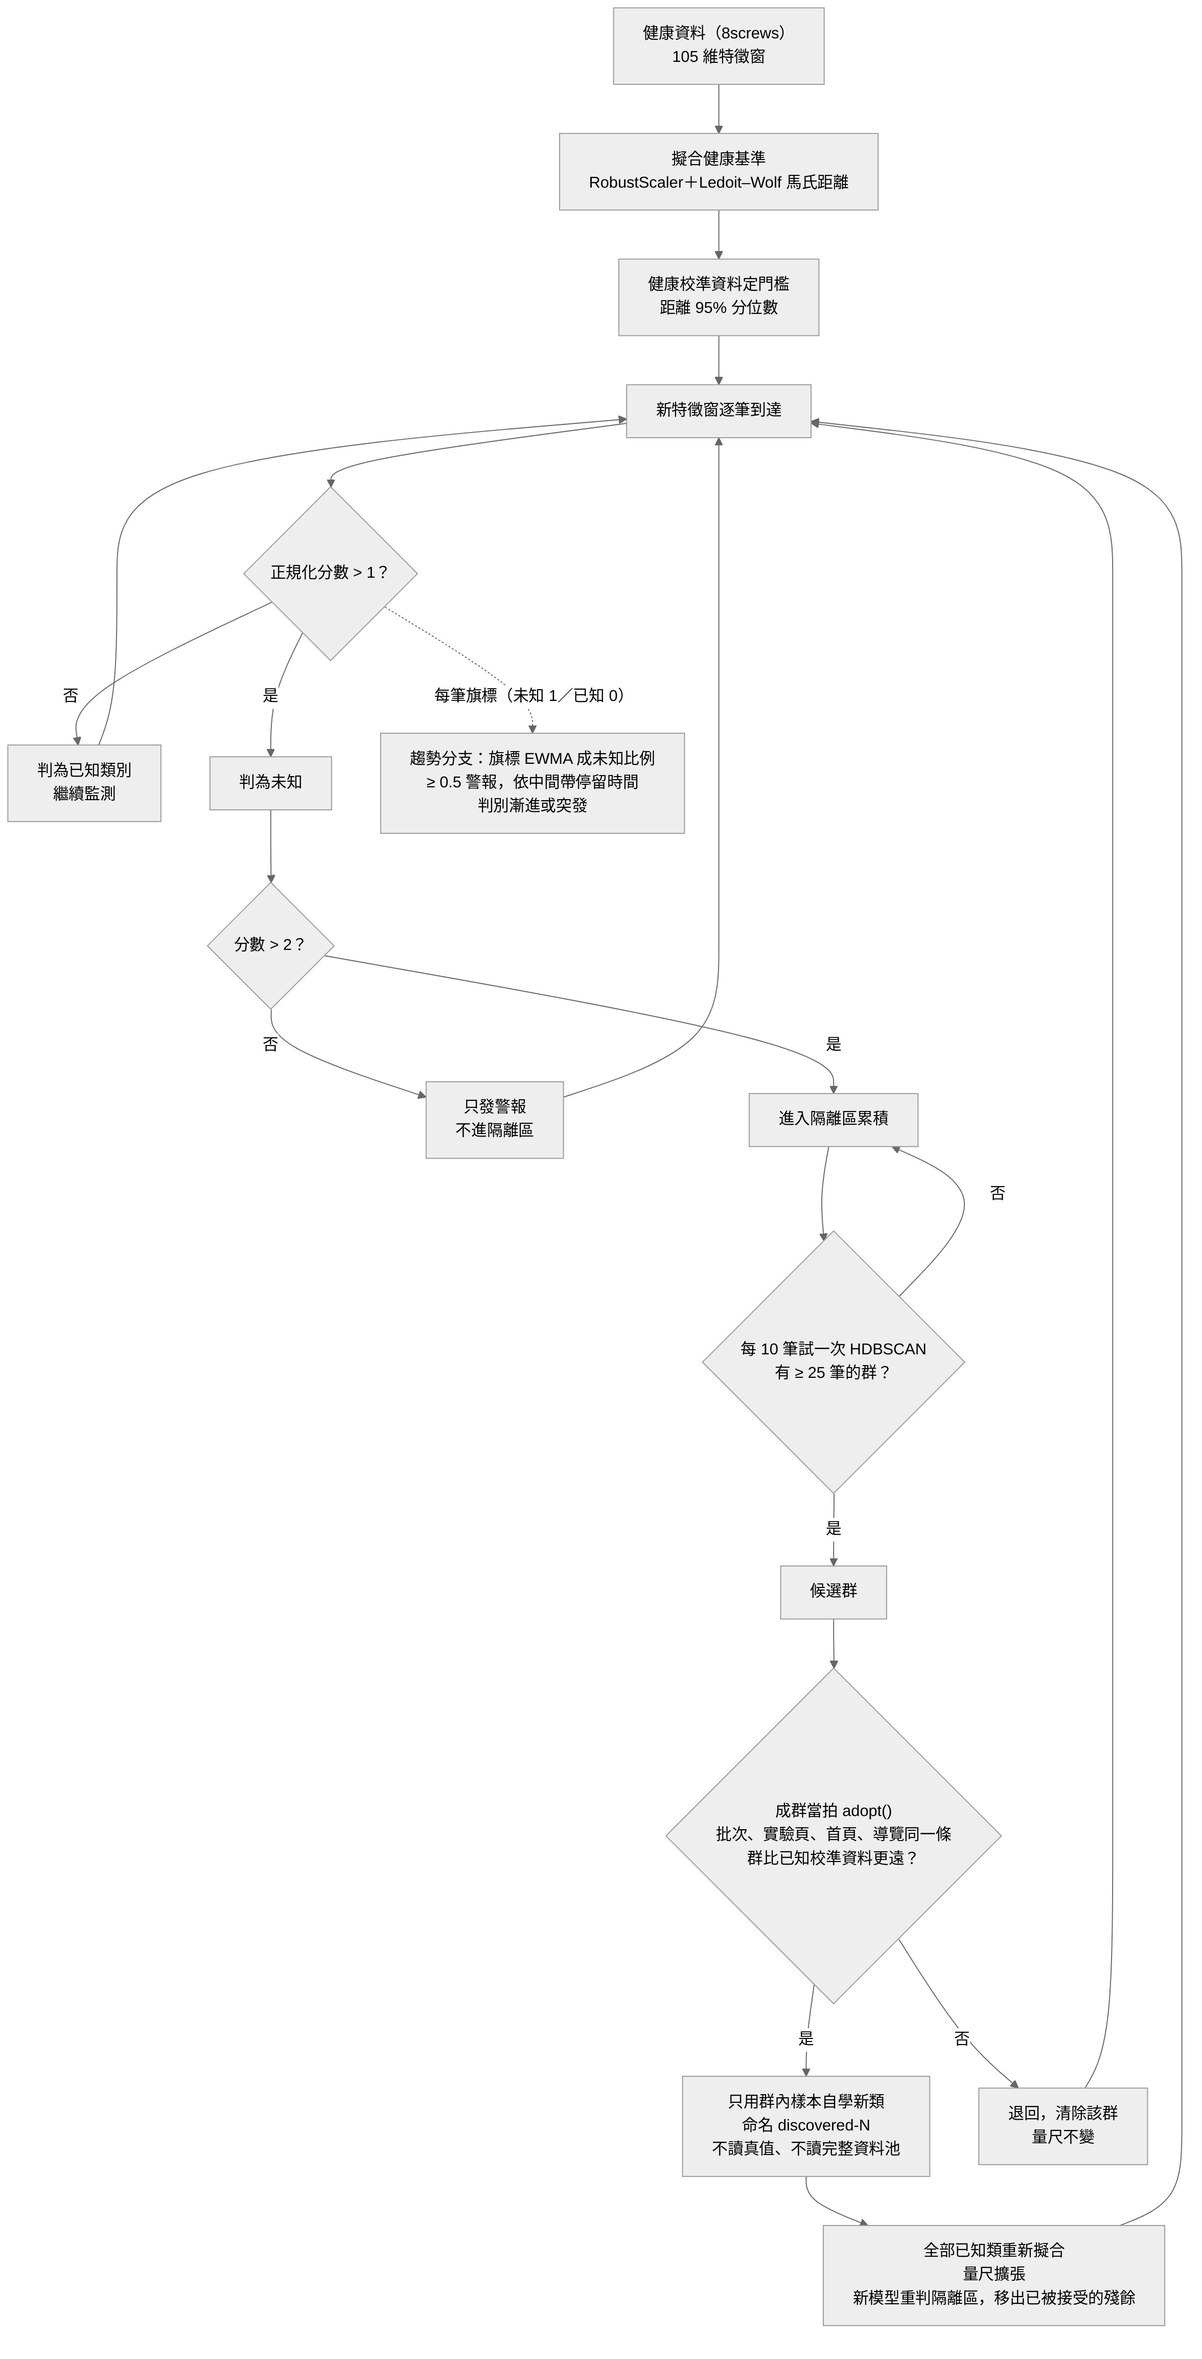
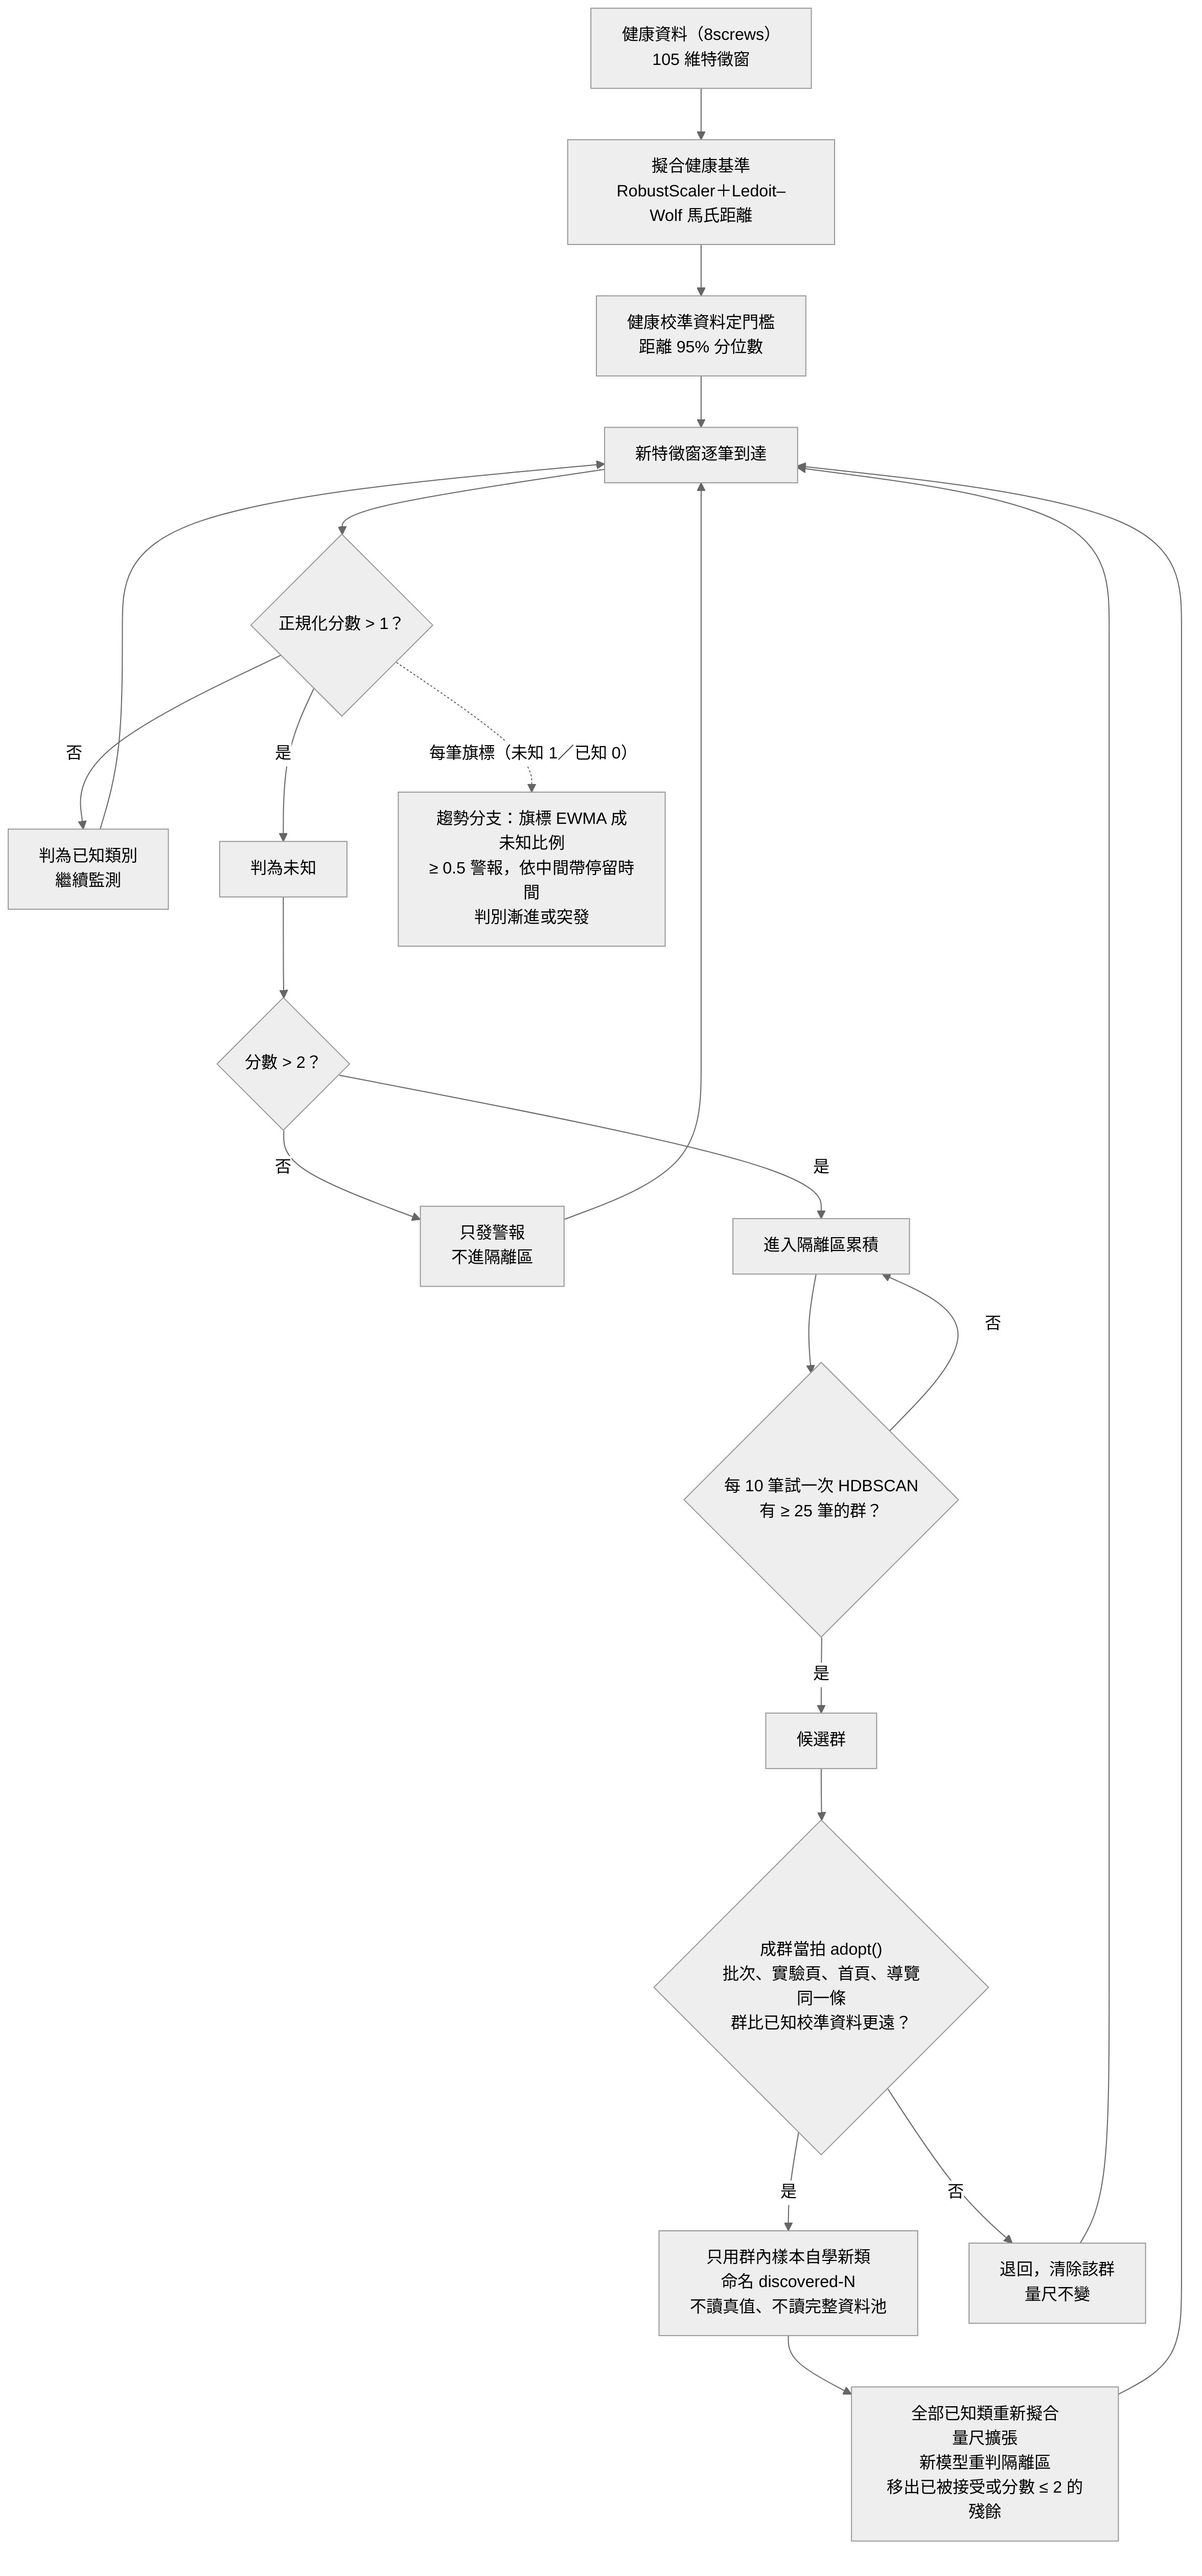
文件(報告)：圖1.1 補上隔離線殘餘清理並重新渲染，重跑 README 延遲範圍改為 52～125
Refs #301

diff --git a/reports/JW-Albert_20261023_rerun_after_review/README.md b/reports/JW-Albert_20261023_rerun_after_review/README.md
@@ -81,7 +81,7 @@ seed 42 基準（`11-56-38`、`11-56-41`）：九工況的 `known_health_mean` L
 - 成立：seed 42 預設的 5screws `final_eval.matched_rate` 高於 51.16%（97.67%）；`--fixed-density` 下沒有同一 `matched` 被學成兩個以上新類（舊版 seed 42 的 5screws 學成三次）；`healthy_holdout_acc` 的範圍與舊版相同；`rejected_boundary` 為 0。
 - 不成立：預設三個 seed 的 `matched_is_config` 段數從 9／9／9 降到 7／7／7，`discovery` 裡從未被發現的配置從 0 個變成每個 seed 各 1 個。手冊把這兩項列為「修正不成立」的訊號。
 - 預期寫錯：手冊預期「預設 seed 42 的 `quarantine_duplicates` 應為 0」，實測 117（seed 123 為 362、seed 2026 為 408）。`CycleSampler` 一圈後重抽同一列，一個階段只有約 240 筆不重複列，舊版 9／9 有一部分是靠重複列把候選撐起來的（#280）。
-- 延遲：七個正常學到的段，`samples_to_candidate` 落在 52～115 筆，與舊版相當；被延後的那個配置要 612～623 筆才被發現，所以 `discovery` 的範圍拉到 52–623。
+- 延遲：七個正常學到的段，`samples_to_candidate` 落在 52～125 筆，與舊版相當；被延後的那個配置要 612～623 筆才被發現，所以 `discovery` 的範圍拉到 52–623。
 
 `--fixed-density`：三個 seed 對上本階段配置 4／1／5 段（舊版 3／2／2），形成新類 6／7／7 次（舊版 9／8／8），`final_eval.matched_rate` 達 80% 的只有 3／6／4 組，最慢 641 筆；仍是多數段學到前一段的殘餘。`--healthy-mix 0.3`：三個 seed 共送入 487＋458＋485＝1430 筆健康窗（延後的那一段跑滿 600 tick，所以比舊版的 745 多），0 筆進入隔離區，沒有形成事後多數為 8screws 的新類；學到當段配置的段與 `final_eval` 的 0 都和不混入時落在同一個配置。
 
